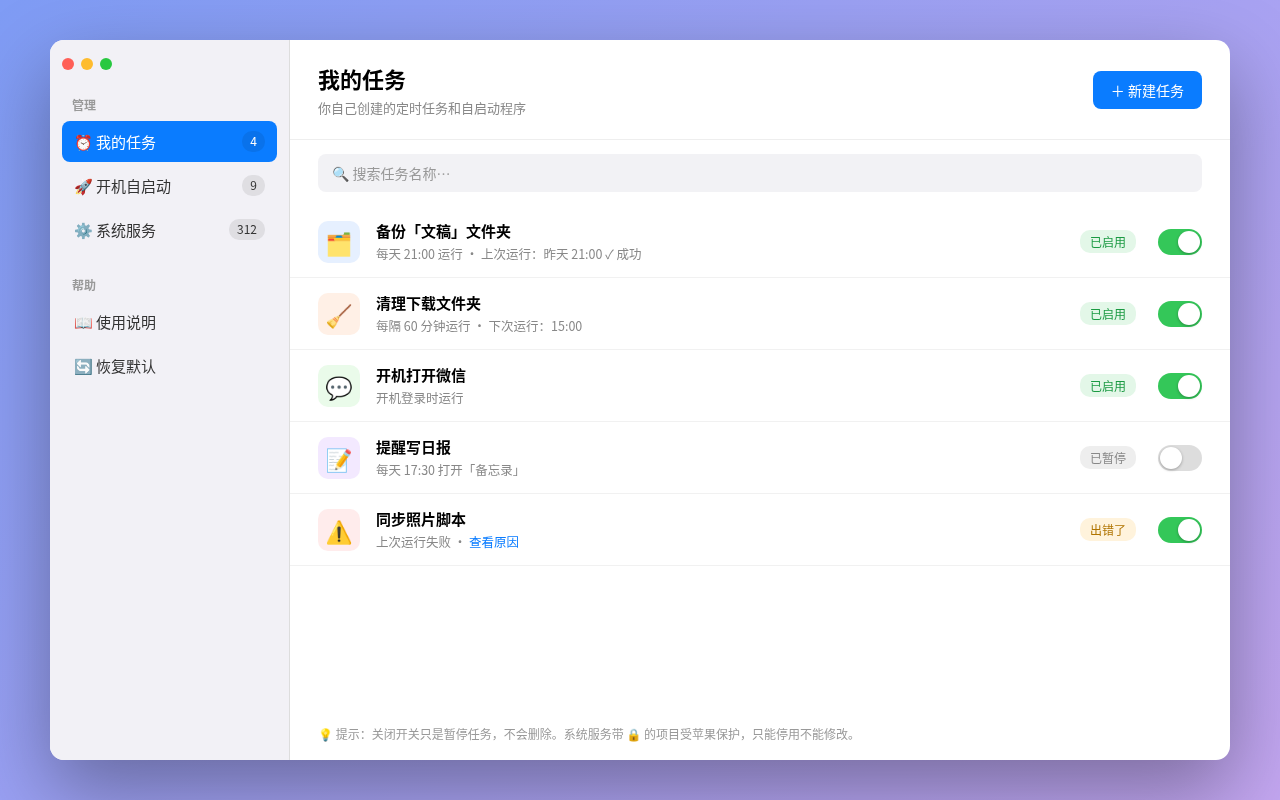
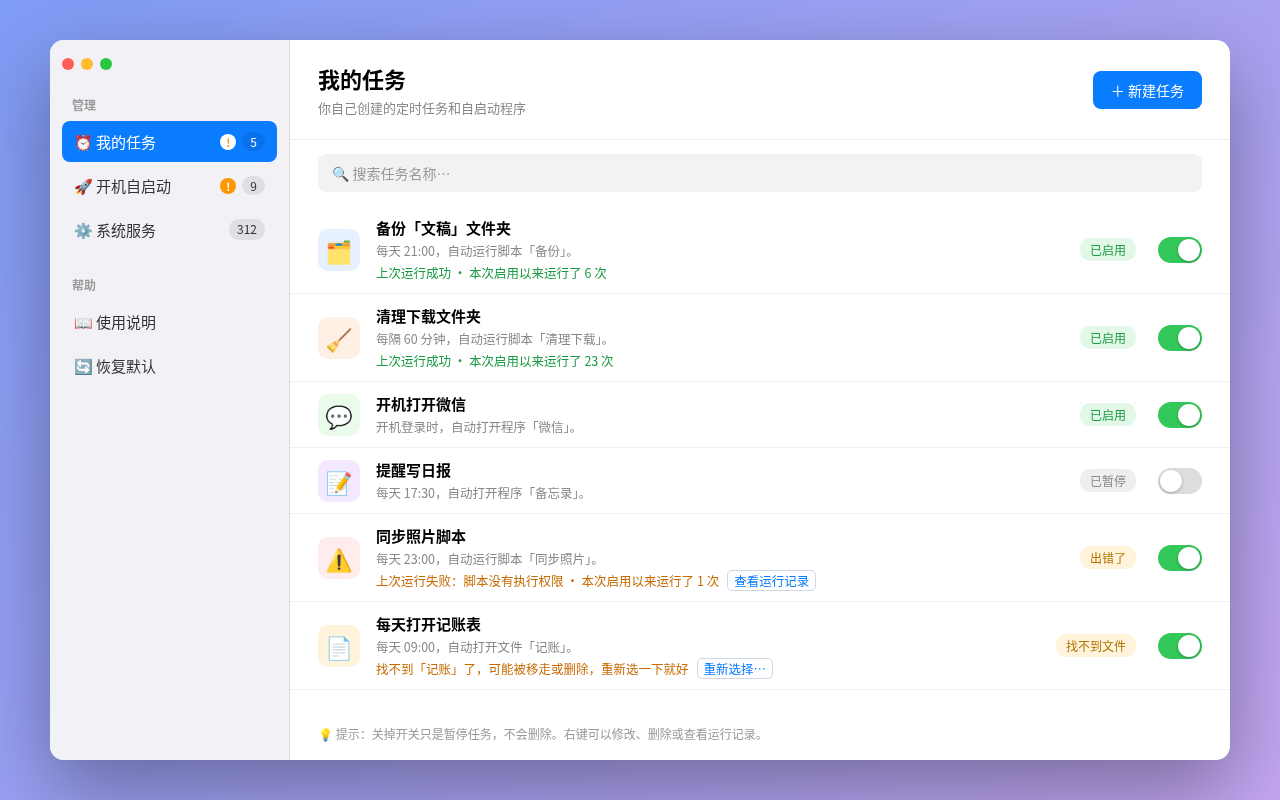
0.4.0：更新说明、README 与我的任务 / 开机自启动截图

diff --git a/README.md b/README.md
@@ -12,7 +12,7 @@
 
 > 下面是设计稿，实际界面用的是 macOS 原生控件，细节会略有不同。
 
-**我的任务**：你自己建的定时任务，开关一拨就暂停。
+**我的任务**：你自己建的定时任务，开关一拨就暂停。每个任务下面会显示上次运行的结果；出了问题会直接告诉你原因，并给一个修的按钮。
 
 ![我的任务](docs/images/mockup-my-tasks.png)
 
@@ -20,7 +20,7 @@
 
 ![新建任务](docs/images/mockup-new-task.png)
 
-**开机自启动**：各种软件偷偷装的后台程序，看不顺眼的可以关掉。软件卸载后留下的残留项会用橙色标出来。
+**开机自启动**：各种软件偷偷装的后台程序，看不顺眼的可以关掉。软件卸载后留下的残留项会用橙色标出来，还能按「全部 / 已开启 / 已停用 / 残留」筛选。
 
 ![开机自启动](docs/images/mockup-startup.png)
 
@@ -37,12 +37,16 @@
   - 暂停和恢复，暂停后重启电脑也不会偷偷跑起来
   - 右键「立即运行一次」，方便试一下效果
   - 查看运行记录，任务打印的内容和报错都会存在 `~/Library/Logs/Launchy/` 里
+  - 每个任务都显示上次运行结果：成功还是失败、启用以来跑了几次。失败时用大白话说原因（比如「脚本没有执行权限」），旁边有「查看运行记录」按钮
+  - 要打开的程序、脚本或文件被移走或删掉了，会显示橙色「找不到文件」，点「重新选择…」换一个就行
 - **开机自启动**
   - 列出「仅当前用户」「所有用户」「系统级」三类第三方后台服务
   - 一个开关控制启用或关闭。系统级的服务会弹出系统密码框，Launchy 自己不碰你的密码
   - 每一项都显示所属软件的真实图标；找不到软件的，按用途（更新、同步、清理、网络、安全……）配一个彩色小图标
   - 点一下就能看详情：它属于哪个软件、大概是干嘛的（常见的我写了中文说明，其他的靠关键词猜个八九不离十）、什么时候运行、进程号、上次退出码
   - 详情页里可以「立即运行」「停止」「在访达中显示」
+  - 顶部可以按「全部 / 已开启 / 已停用 / 残留」筛选，每一项后面带数量
+  - 有软件新装或卸载了自启动项，列表会自动刷新，不用手动点「刷新」
   - 自动标出「残留项」：软件已经删了、后台配置还留着的，会显示橙色「⚠ 程序已删除」，页面顶部也会提醒，详情页会用大白话告诉你怎么处理。只检查第三方服务，不会自动删任何东西
   - 可以编辑：程序、参数、开机运行、定时，也可以直接改原始 plist。保存前会先用 `plutil` 检查格式，再自动备份到 `~/Library/Application Support/Launchy/backups`，改坏了能一键从备份恢复。`/Library` 下的文件保存时会弹一次密码框。保存和恢复都在后台进行，界面不会卡住
 - **系统服务**
@@ -52,6 +56,10 @@
   - 改了马上生效：停用时会顺手把它停掉，启用时会马上加载。需要管理员权限的，从头到尾只弹一次密码框
   - 有些服务被 SIP 护着，没法当场停掉，会标成「重启后生效」，工具栏上会多一个「立即重启」按钮（点了还会再问你一次，不会说重启就重启）
   - 每次修改都有记录，可以一键「恢复默认」
+
+- **其他**
+  - 侧边栏会提醒你哪里需要处理：「我的任务」里有任务出错、「开机自启动」里有还开着的残留项时，名字旁边会出现橙色感叹号，鼠标停上去能看到原因
+  - 支持 VoiceOver 读屏：每一行读成「名字，状态」，开关和右键里的操作都能在 VoiceOver 的操作菜单里找到
 
 所有任务都存成 `~/Library/LaunchAgents/com.launchy.*.plist`，是标准的 launchd 格式。哪天你不想用 Launchy 了，这些任务照样能跑，也可以直接删掉。
 
@@ -123,7 +131,7 @@ scripts/build-app.sh 0.1.0 --dmg   # 产物在 dist/ 里
 ## 常见问题
 
 **任务不执行？**
-先右键「立即运行一次」看看，再去「查看运行记录」找报错。脚本记得要有执行内容，路径里尽量别出现奇怪的字符。
+先看任务下面那行小字，失败了会写原因；再点旁边的「查看运行记录」找详细报错，也可以右键「立即运行一次」试试。显示「找不到文件」的话，点「重新选择…」把挪走的文件重新选上就行。脚本记得要有执行内容，路径里尽量别出现奇怪的字符。
 
 **改完显示「重启后生效」，关掉 Launchy 会丢吗？**
 不会。这个标记会一直保留，直到你真的重启了电脑才自动消失。

diff --git a/docs/release-notes/0.4.0.md b/docs/release-notes/0.4.0.md
@@ -1,0 +1,6 @@
+- 「我的任务」会告诉你任务跑得怎么样了：每一行下面多了一行小字，显示上次运行成功还是失败、启用以来跑了几次；失败时用大白话说原因，比如「脚本没有执行权限」「脚本里有找不到的命令」
+- 任务出问题时直接给你修的办法：要打开的文件被移走或删掉了，会显示橙色「找不到文件」和「重新选择…」按钮；运行失败的任务旁边有「查看运行记录」按钮，一点就能看到报错
+- 侧边栏会提醒你哪里需要处理：「我的任务」有任务出错、「开机自启动」有还开着的残留项时，名字旁边会出现一个橙色感叹号，鼠标停上去能看到原因
+- 「开机自启动」页加了「全部 / 已开启 / 已停用 / 残留」筛选，后面带数量；残留提示条上的「只看残留项」一点就能切过去
+- 「开机自启动」列表会自动刷新：新装或卸载的软件增删了自启动项，列表马上跟着变，不用再手动点「刷新」
+- 支持 VoiceOver 读屏：每一行读成「名字，状态」，开关、修改、立即运行、查看运行记录等操作都能在 VoiceOver 的操作菜单里找到
